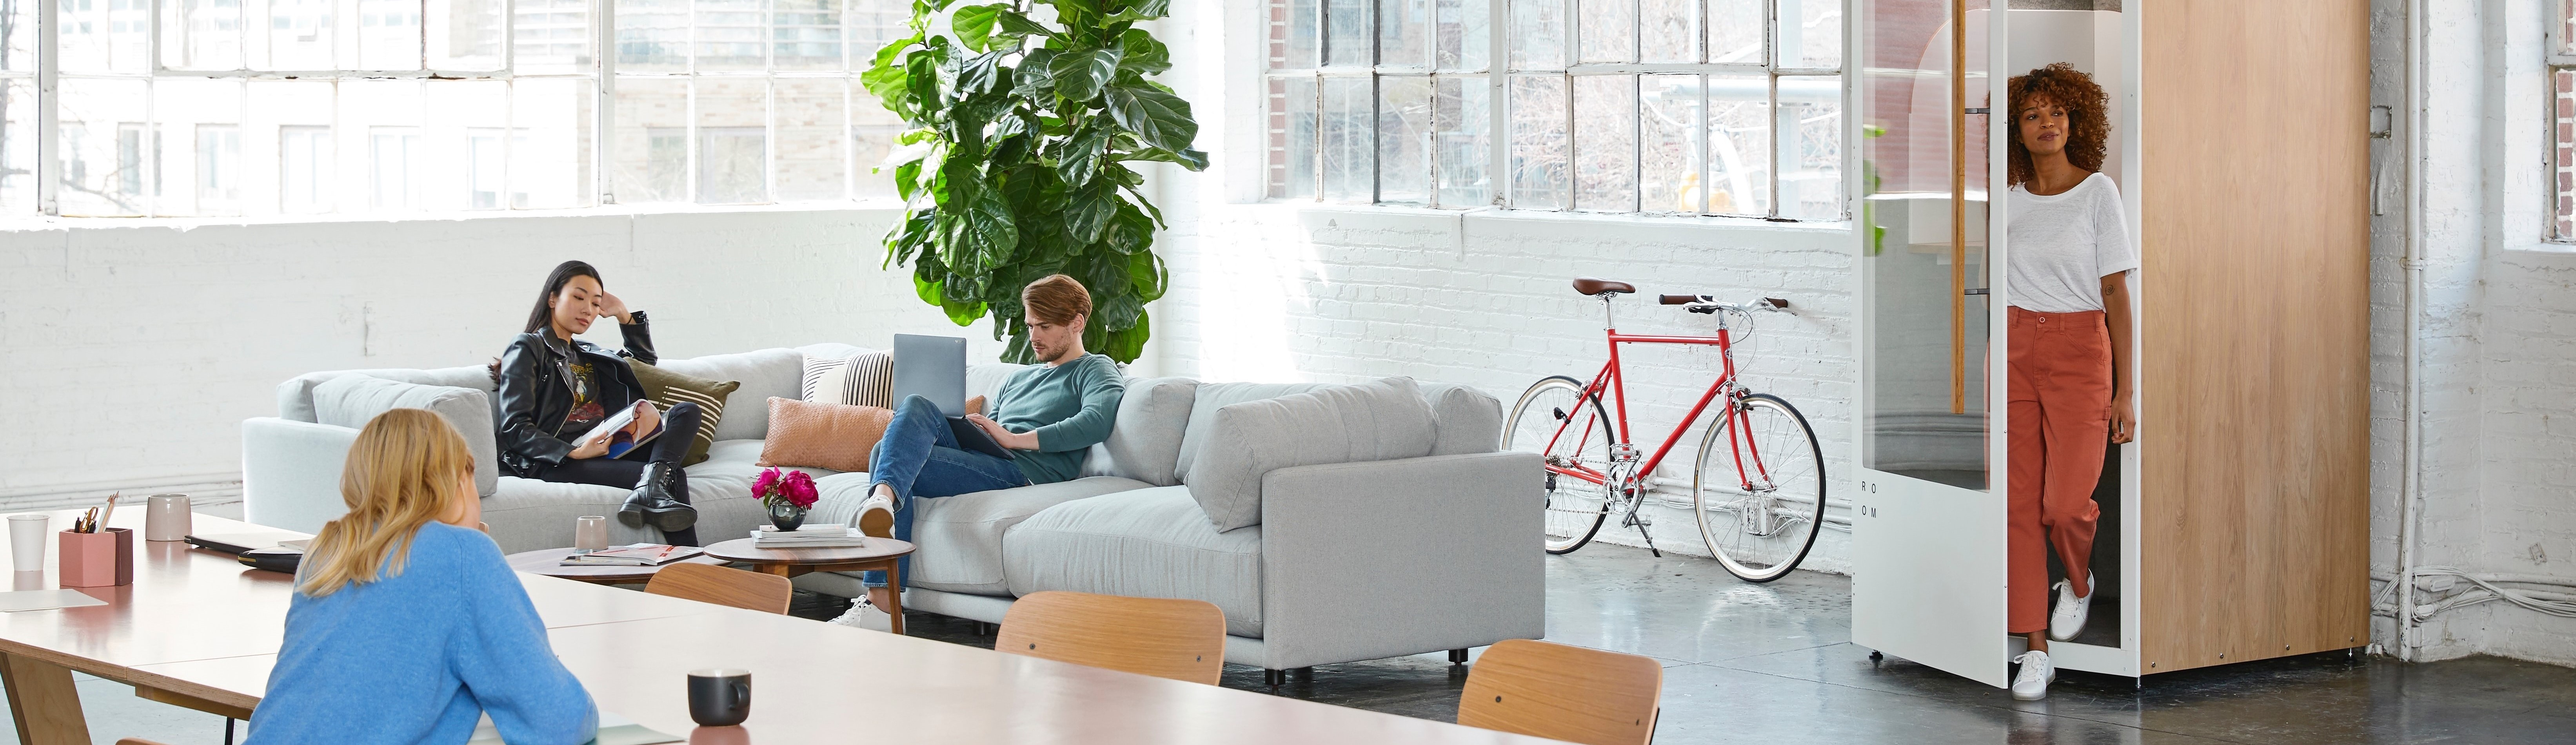
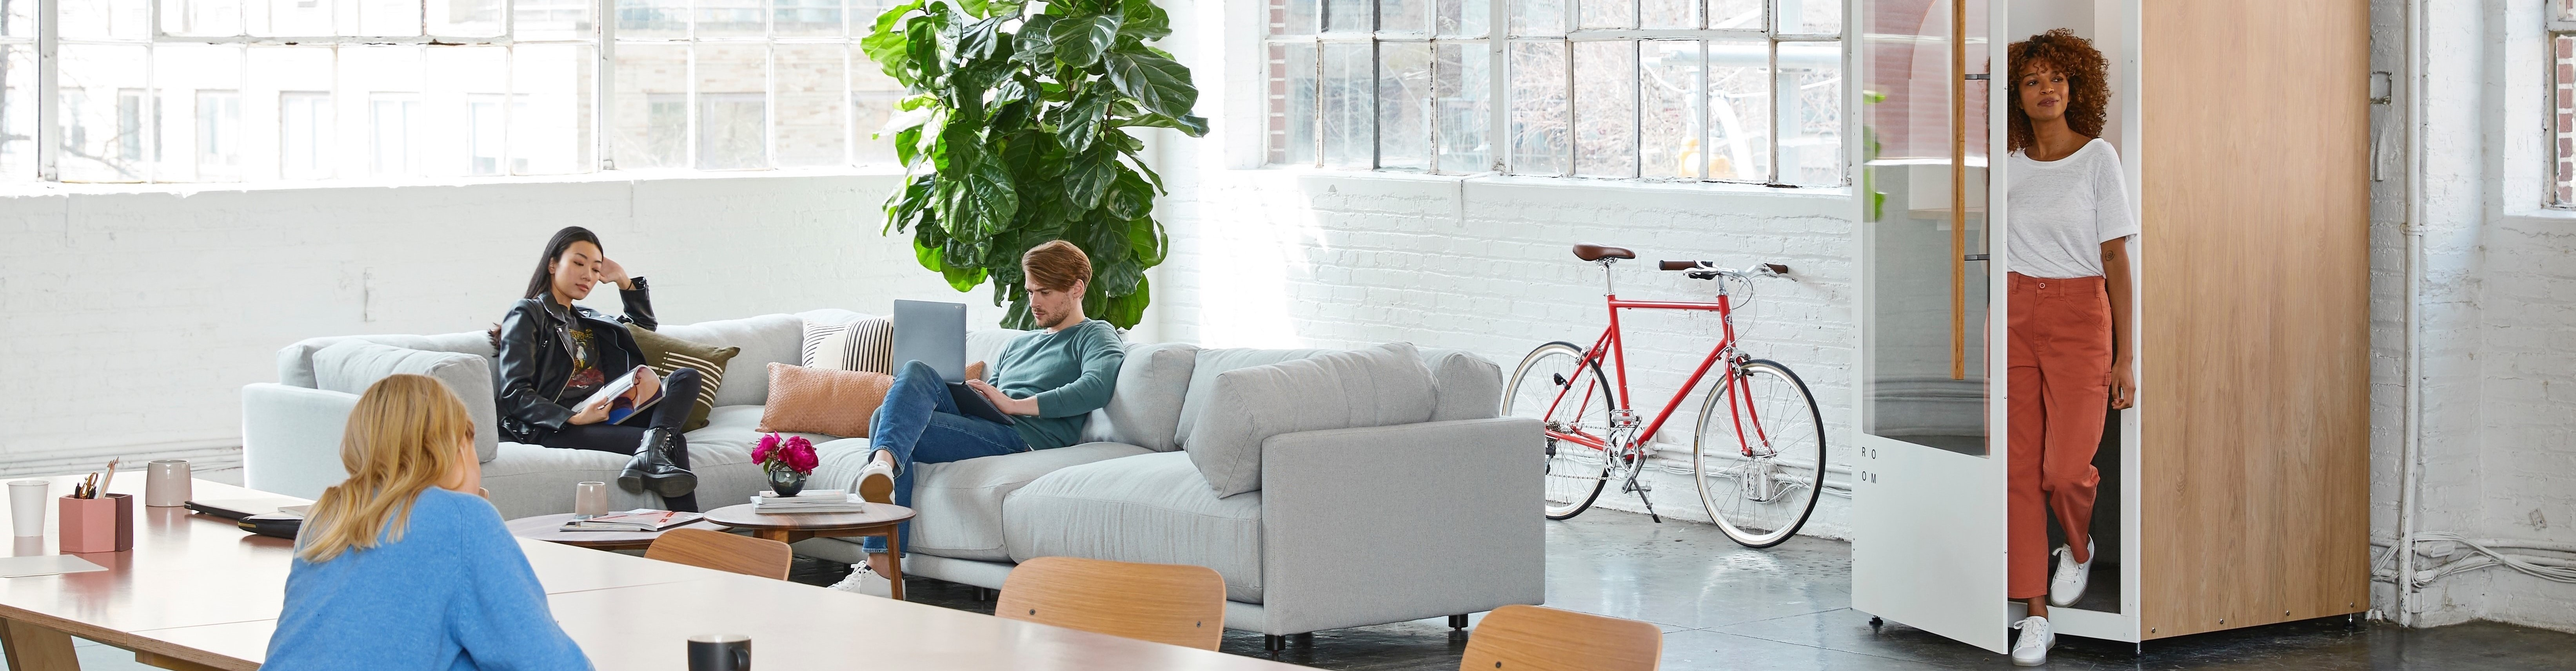
resize profile bg img

diff --git a/seekmyteam-app/src/app/profile/profile.component.html b/seekmyteam-app/src/app/profile/profile.component.html
@@ -1,7 +1,7 @@
 <!-- Wrapper Start -->
 <div class="wrapper">
     <!-- Cover Header Start -->
-    <div class="cover--header pt--80 text-center" data-bg-img="assets/girl.jpg" data-overlay="0.4"
+    <div class="cover--header pt--80 text-center" data-bg-img="assets/girl.jpg" data-overlay="0.3"
         data-overlay-color="white">
         <div class="container">
             <div class="cover--avatar online" data-overlay="0.3" data-overlay-color="primary">

diff --git a/seekmyteam-app/src/app/navbar/navbar.component.ts b/seekmyteam-app/src/app/navbar/navbar.component.ts
@@ -6,11 +6,7 @@ import { Router } from '@angular/router';
 
 @Component({
   selector: 'app-navbar',
-<<<<<<< HEAD
-  templateUrl: './navbar.component.html',
-=======
   templateUrl: './navbar.component.html'
->>>>>>> home-page
 })
 export class NavbarComponent implements OnChanges {
   profilePic: string;
